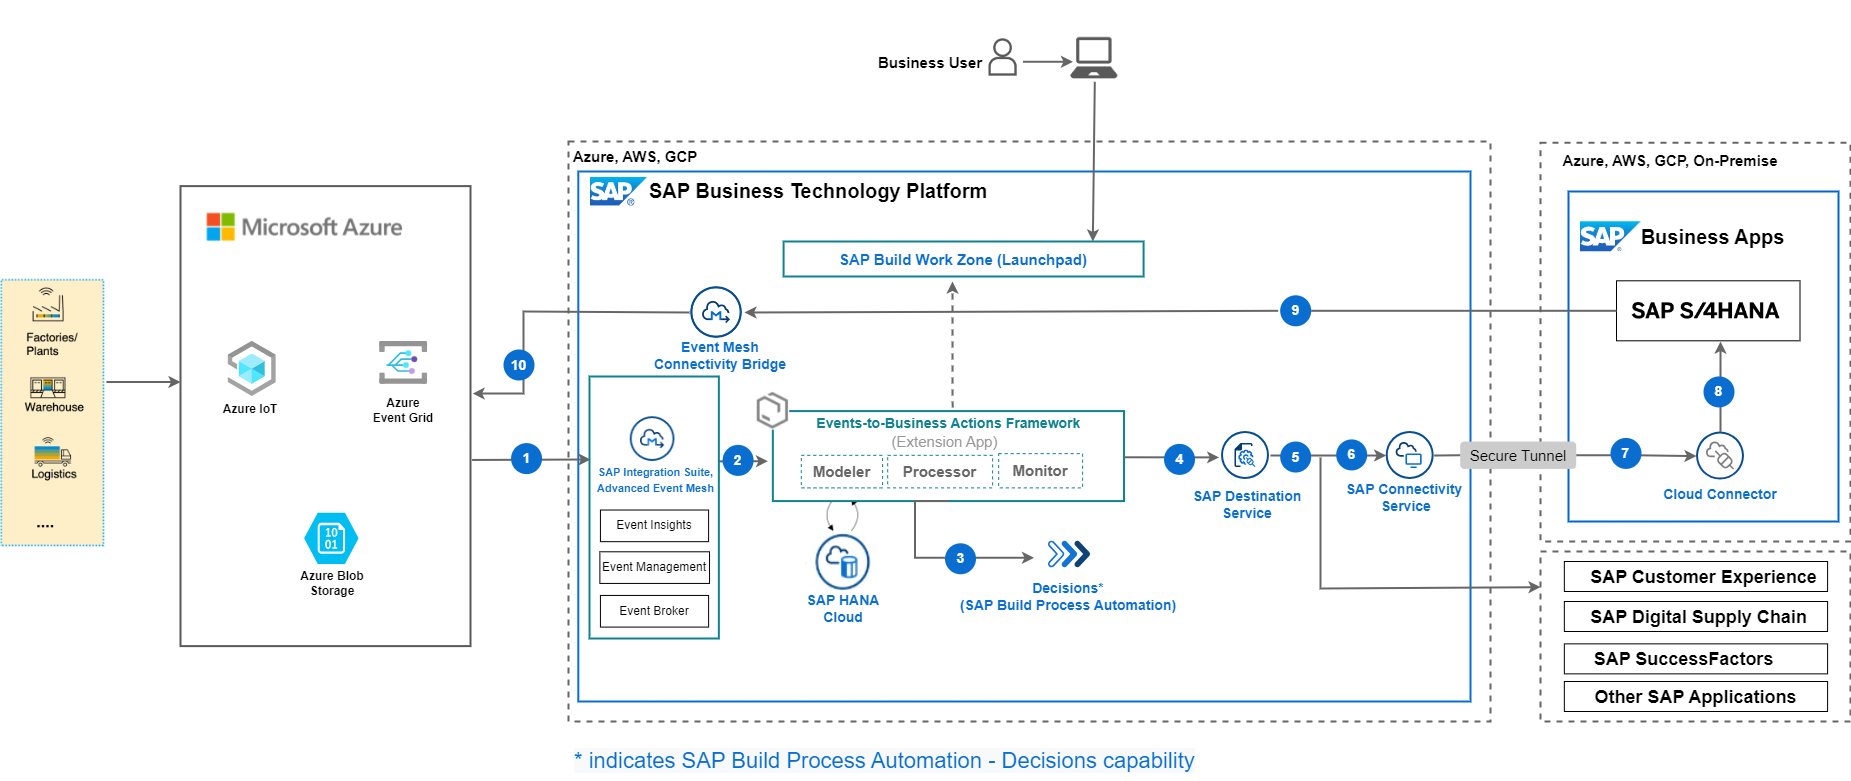
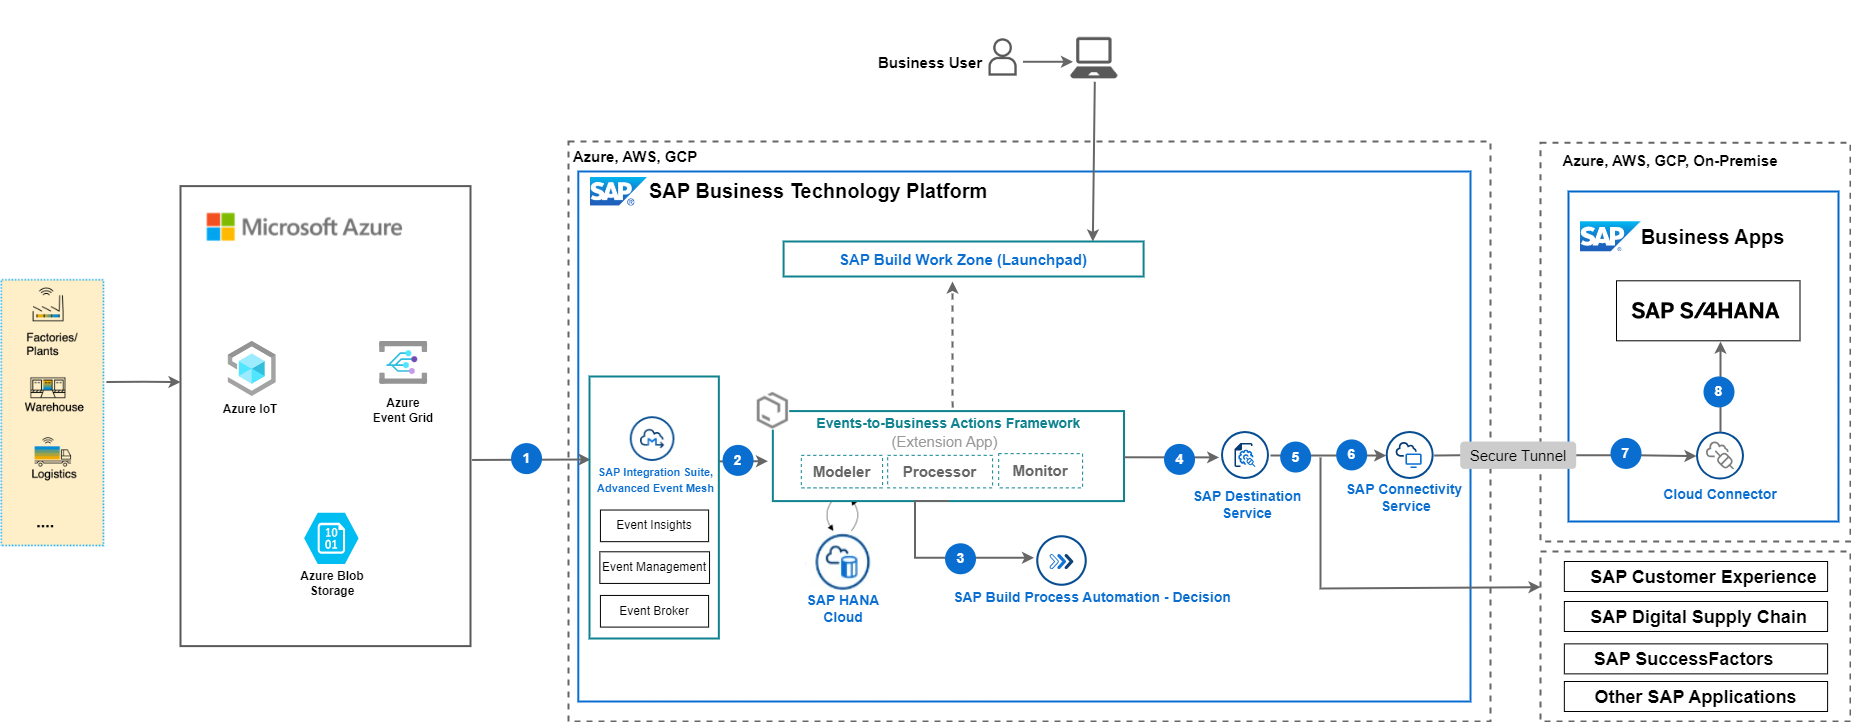
e2b framework details added

diff --git a/exercises/ex1/README.md b/exercises/ex1/README.md
@@ -2,8 +2,41 @@
 
 In this exercise, you will clone the codebase and deploy the Events-to-Business-Actions Framework on SAP BTP using SAP Business Application Studio. You can find the SAP BTP account and SAP Business Application Studio details here: [Systems and Credentials](../ex0/README.md/#4-systems-annd-credentials)
 
-### 1. Clone the GitHub Repository
+### 1. Discover Events-to-Business-Actions Framework
+
+>**The Events-to-Business Actions Framework implements an event-driven architecture which enables integration of SAP and non-SAP systems which can be source for events to SAP business systems like SAP S/4HANA, SAP Customer Experience or SAP Asset Performance Management etc.**
+
+<img src="./images/framework.png" width="75%" height="90%" />  
     
+<br>
+
+**Understanding the framework**
+
+The framework is developed using SAP Cloud Application Programming (CAP) Model and Node.js. It has primarily 3 components.
+1. **Modeler**
+    - Using the Modeler UI, you can configure the business actions that need to be triggered in the Business systems (Ex: Creation of Purchase Order Requisition in SAP S/4HANA, Service Ticket in SAP Service Cloud etc.) based on the incoming event. Modeler UI is built using SAP Fiori elements and provides the following tiles to configure action types, actions, and monitor the business action execution logs.
+    - “Manage action” tile can be used to configure the business actions. It is integrated with SAP Destination Service so that you can select the required destination configured for SAP business system to add the endpoint and the payload that is needed to create the business action.
+    - The modeler supports defining and chaining actions based on the context flow as depicted in below figure .
+        - “Default action” is used by the processor to determine which main action needs to be triggered for an incoming event. Only one default action can be defined in modeler.
+        - “Main action” is the action that can be used to create a transaction in the business system (Purchase Order Requisition, Service Tickets etc.).
+        - “Pre-actions” are actions that are like supporting actions that are executed before the “Main Action” so that you can use the output parameters from them while creating “Main-Action”.
+        - “Post-actions” are actions that are executed after the “Main Action” is successfully executed that you can use to trigger further business processes or notify any users/systems of the Business action creation.    
+        <img src="./images/actionslogicflow.png" width="75%" height="90%" />  
+
+2. **Processor**
+    - Processor is the backend module that receives the from SAP Inetrgation Suite, Advanced Event Mesh topic and executes the corresponding business actions in the SAP S/4HANA system.
+    - The processor executes the following steps once it receives an event:
+        - Processes ‘Default Action’ to determine which business actions (Main Action) needs to be processed.
+        - Fetches the respective business action definition and the associated pre/post actions.
+        - Executes the defined pre-actions one by one and then executes the main business action. The processor replaces the respective dynamic values from the event/pre-actions before executing the main action.
+        - Once the main action is successfully created, it executes the post-actions that are defined for this main action.
+
+3. **Monitor**
+    - Monitor application is used to monitor the status of the business actions and check the logs for troubleshooting.
+    - You can drill down to the individual action execution to find out the respective logs and can be used for troubleshooting any failed execution.
+
+For more details about the framework, you can refer the blog here: [Explore “Events-To-Business Actions” Framework](https://blogs.sap.com/2023/02/01/part-2-explore-events-to-business-actions-framework/)
+
 
 Access the [Event To Action Framework](https://github.com/SAP-samples/btp-events-to-business-actions-framework) GitHub repository to download the project.
 
